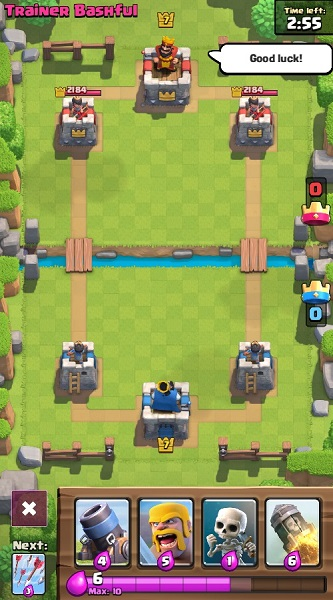
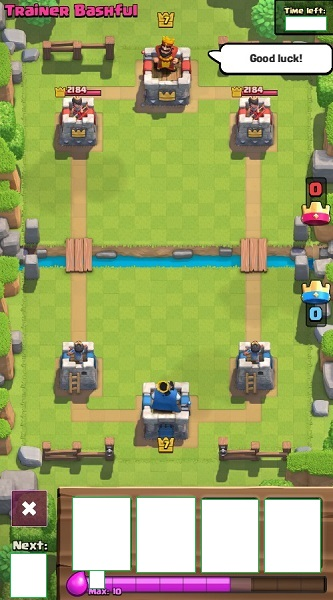
Grupo6

Changed region(s): [[0.2102, 0.81, 0.991, 0.99], [0.03, 0.9, 0.1502, 1.0], [0.8408, 0.0, 0.991, 0.06]]

diff --git a/lp2017-projeto/src/resource/play.css b/lp2017-projeto/src/resource/play.css
@@ -31,3 +31,4 @@
 .button:hover {
     -fx-background-color: linear-gradient(#2A5058, #61a2b1);
 }
+

diff --git a/lp2017-projeto/src/ismt/application/scene/PlayScene.java b/lp2017-projeto/src/ismt/application/scene/PlayScene.java
@@ -1,12 +1,23 @@
 package ismt.application.scene;
 
+import java.lang.reflect.InvocationTargetException;
+import java.util.ArrayList;
+import java.util.Random;
+import ismt.application.main.Card;
+import ismt.application.main.GameMain;
+//import ismt.application.main.GameMain.GameListener;
+import ismt.application.main.Main;
+import ismt.application.main.Utils;
+import javafx.animation.Timeline;
 import javafx.event.ActionEvent;
+import javafx.event.Event;
 import javafx.event.EventHandler;
-import javafx.geometry.Pos;
 import javafx.scene.Scene;
 import javafx.scene.control.Button;
+import javafx.scene.control.Label;
 import javafx.scene.layout.GridPane;
-import javafx.scene.layout.VBox;
+import javafx.scene.paint.Color;
+import javafx.scene.text.Text;
 import javafx.stage.Stage;
 
 public class PlayScene{
@@ -16,33 +27,64 @@ public class PlayScene{
 	final static int BUTTON_SIZE = 100;
 	final static int GAP_SIZE = 10;
 	
+	
+	private static final Integer STARTTIME = 15;
+    private Timeline timeline;
+    private Label timerLabel = new Label();
+    private Integer timeSeconds = STARTTIME;
+	ArrayList<Card> deck = new ArrayList<Card>();
+	private GameMain game;
+	
 	public PlayScene() {
 		// TODO Auto-generated constructor stub
 	}
-
+	
 	public Scene buildPlayScene(Stage primaryStage, Scene sceneMain) {
-		// TODO
-
-		// Set button back action
-		EventHandler<ActionEvent> buttonBackhandler = new EventHandler<ActionEvent>() {
-			@Override
-			public void handle(ActionEvent e) {
-				primaryStage.setScene(sceneMain);
-			}
-		};
-
+		
 		// All other scenes
-		Button buttonBack = new Button("Back");
-		buttonBack.setOnAction(buttonBackhandler);
-		VBox vbBtnBack = new VBox(BUTTON_SIZE);
-		vbBtnBack.setAlignment(Pos.BOTTOM_RIGHT);
-		vbBtnBack.getChildren().add(buttonBack);
 		GridPane grid = new GridPane();
-		grid.add(vbBtnBack, 1, 4);
+		grid.setHgap(20);
+		grid.setVgap(20);
+		
+		Button buttonBack = new Button("Back");
+		grid.setConstraints(buttonBack, 0, 0, 2, 1);
+		grid.getChildren().add(buttonBack);
+		
+		
 		Scene tempScene = new Scene(grid, APP_WIDTH, APP_HEIGHT);
 		tempScene.getStylesheets().add("resource/play.css");
 		
+		
+		timerLabel.setText(timeSeconds.toString());
+        timerLabel.setTextFill(Color.RED);
+        timerLabel.setStyle("-fx-font-size: 4em;");
+        
+        
+        Button carta1 = new Button();
+        grid.setConstraints(carta1, 3, 20, 2, 2);
+        grid.getChildren().add(carta1);
+        
+        Button carta2 = new Button();
+        grid.setConstraints(carta2, 5, 20, 2, 2);
+        grid.getChildren().add(carta2);
+        Button carta3 = new Button();
+        grid.setConstraints(carta3, 7, 20, 2, 2);
+        grid.getChildren().add(carta3);
+        Button carta4 = new Button();
+        grid.setConstraints(carta4, 9, 20, 2, 2);
+        grid.getChildren().add(carta4);
+        
+        Button comingCard = new Button();
+        grid.setConstraints(comingCard, 1, 22, 1, 1);
+        grid.getChildren().add(comingCard);
+        
+        carta1.getStyleClass().add("carta1Style");
+        carta2.getStyleClass().add("carta2Style");
+        carta3.getStyleClass().add("carta3Style");
+        carta4.getStyleClass().add("carta4Style");
+		
 		return tempScene;
 	}
+
 }
 

diff --git a/lp2017-projeto/src/ismt/application/main/Main.java b/lp2017-projeto/src/ismt/application/main/Main.java
@@ -3,7 +3,6 @@ package ismt.application.main;
 import ismt.application.scene.*;
 import static javafx.geometry.HPos.RIGHT;
 
-import java.io.IOException;
 import java.util.ArrayList;
 
 import javafx.application.Application;
@@ -33,10 +32,9 @@ public class Main extends Application implements GameInterface{
 	final int GAP_SIZE = 10;
 	Scene sceneLogin, sceneMain, scenePlay, 
 		  sceneViewStats, sceneViewPlayers, 
-		  sceneViewCards, sceneViewRules, sceneViewShop; 
+		  sceneViewCards, sceneViewRules, sceneViewShop, sceneIndividualCard; 
 
 	public static void main(String[] args) {
-
 		launch(args);
 	}
 
@@ -110,15 +108,15 @@ public class Main extends Application implements GameInterface{
 		buttonLogin.setOnAction(new EventHandler<ActionEvent>() {
 			@Override
 			public void handle(ActionEvent e) {
-				// if(Utils.validateUser(userTextField.getText(), pwBox.getText())){ // FIXME
-				if(true){
-					actiontarget.setText("Correct!");
-					primaryStage.setScene(sceneMain);
-				}
-				else{
-					actiontarget.setFill(Color.FIREBRICK);
-					actiontarget.setText("Wrong credentials: " + userName.getText() + "|" + pw.getText());
-				}
+				if(Utils.validateUser(userTextField.getText(), pwBox.getText()))// FIXME
+					if(true){
+						actiontarget.setText("Correct!");
+						primaryStage.setScene(sceneMain);
+					}
+					else{
+						actiontarget.setFill(Color.FIREBRICK);
+						actiontarget.setText("Wrong credentials: " + userName.getText() + "|" + pw.getText());
+					}
 			}
 		});
 		
@@ -129,7 +127,6 @@ public class Main extends Application implements GameInterface{
 				primaryStage.close();
 			}
 		});
-	
 	}
 
 	public void buildMainScene(Stage primaryStage) {
@@ -173,14 +170,18 @@ public class Main extends Application implements GameInterface{
 			public void handle(ActionEvent e) {
 				if (e.getSource() == buttonLogout)
 					primaryStage.setScene(sceneLogin);
-				else if (e.getSource() == buttonPlay)
+				else if (e.getSource() == buttonPlay){
 					primaryStage.setScene(scenePlay);
+					GameMain game = new GameMain();
+					game.start();
+				}
 				else if (e.getSource() == buttonStats)
 					primaryStage.setScene(sceneViewStats);
 				else if (e.getSource() == buttonPlayers)
 					primaryStage.setScene(sceneViewPlayers);
-				else if (e.getSource() == buttonCards)
+				else if (e.getSource() == buttonCards){
 					primaryStage.setScene(sceneViewCards);
+				}					
 				else if (e.getSource() == buttonShop)
 					primaryStage.setScene(sceneViewShop);
 				else if (e.getSource() == buttonRules)

diff --git a/lp2017-projeto/src/ismt/application/main/Card.java b/lp2017-projeto/src/ismt/application/main/Card.java
@@ -10,6 +10,7 @@ public class Card {
 	private int quantity;
 	private JsonArray levels;
 	private String type;
+	private String image;
 
 	public Card() {
 	}
@@ -91,5 +92,13 @@ public class Card {
 
 	public void setType(String type) {
 		this.type = type;
+	}
+	
+	public String getImage() {
+		return image;
+	}
+
+	public void setImage(String image) {
+		this.image = image;
 	}
 }
